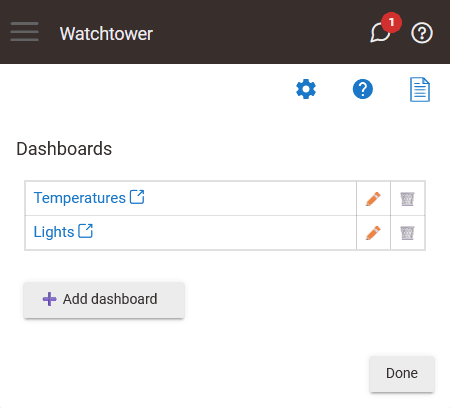
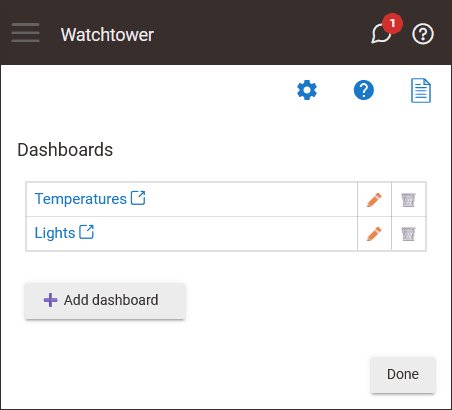
Add image borders

diff --git a/watchtower-app/README.md b/watchtower-app/README.md
@@ -31,10 +31,7 @@ To use the Watchtower app, follow these steps:
 
 When you open the Watchtower app, the following screen will welcome you.
 
-From this screen
-
 ![Main screen](img/main.png)
-
 
 ### Devices screen
 
